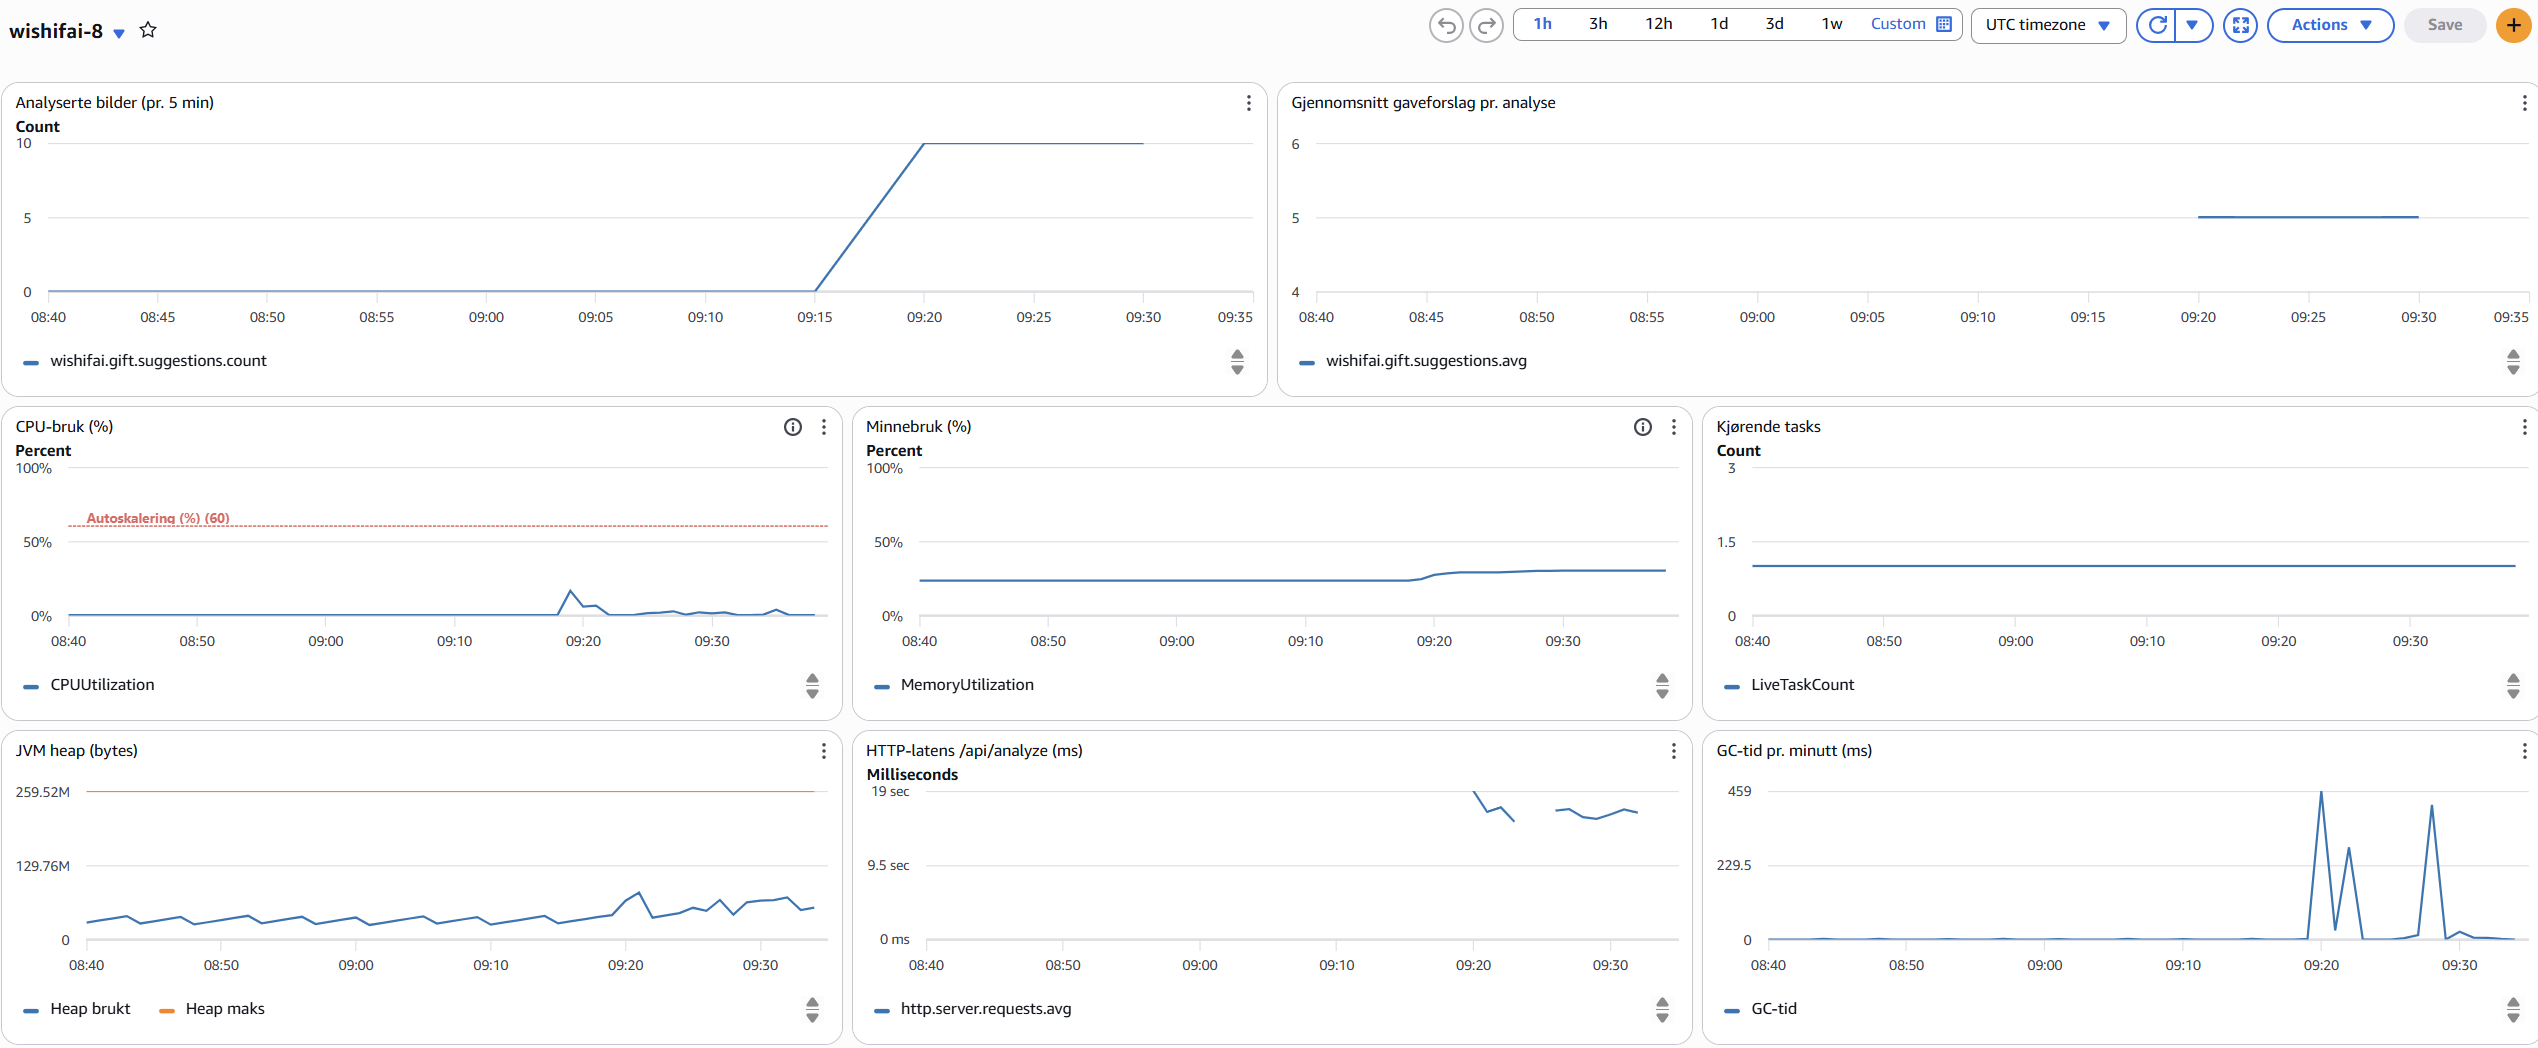
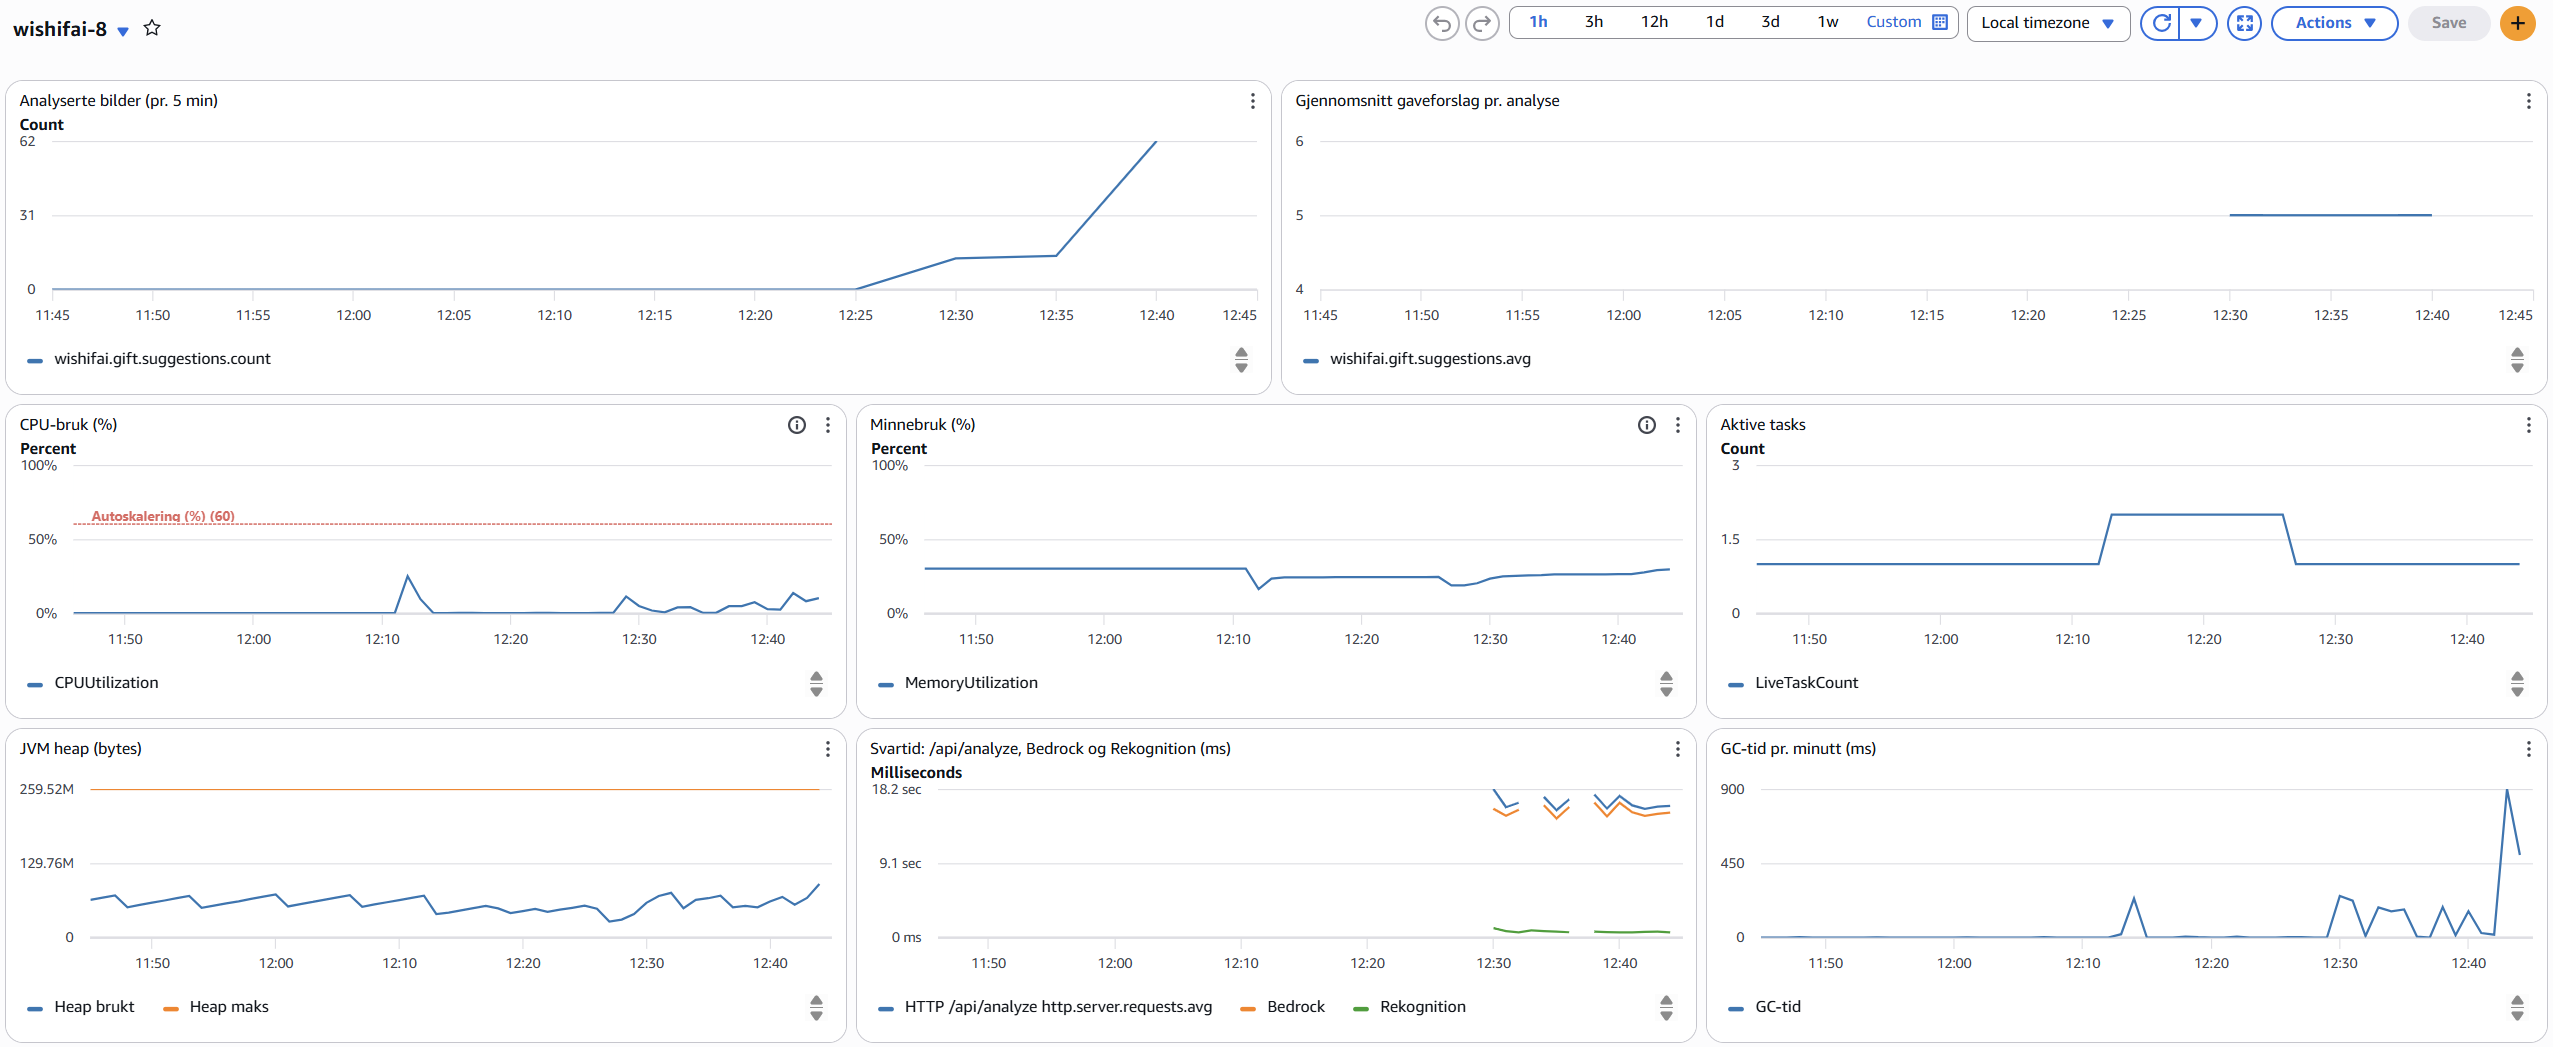
3B - Oppdatert bilde av dashboard

diff --git a/README_SVAR.md b/README_SVAR.md
@@ -20,7 +20,8 @@
 
 ## 2C - Terraform begrunnelse
 ### Hvorfor er det fornuftig at Terraform kjører etter container-build, og ikke parallelt eller før?
-- Imaget må finnes i ECR før Terraform kan deploye det.
+- Imaget må finnes i ECR før Terraform kan deploye det. Kjører de parallelt eller i motsatt rekkefølge, peker tjenesten på en tag som ikke finnes ennå, og deployen feiler.
+- Med `needs:` får Terraform-jobben image-taggen fra build-jobben, slik at det er den bygde committen som deployes.
 ### Lenke til grønn kjøring:
 - https://github.com/Hovercraft97/DevOpsExam2026/actions/runs/41686312781
 
@@ -61,7 +62,7 @@ Registrerer antall gaveforslag for hver fullførte analyse.
 ### Applikasjon
 - HTTP-latens på `/api/analyze` vises sammen med `wishifai.bedrock.duration` og `wishifai.rekognition.duration` i samme graf. Da ser man hvor stor andel av svartiden brukeren opplever som går til de eksterne AWS-kallene.
 - JVM heap og GC-tid (Garbage collection) pr. minutt viser om JVM-en selv er årsaken til treghet.
-- Metrikkene hentes med `SEARCH()` fordi Actuator legger på mange dimensjoner og kombinasjonene er ukjent på forhånd.
+- HTTP-, heap- og GC-metrikkene hentes med `SEARCH()` fordi Actuator legger på mange dimensjoner og kombinasjonene er ukjent på forhånd.
 
 ### Hvorfor denne sammensetningen
 Radene skal sammen svare på hvor tiden blir av. Er HTTP-latensen høy mens CPU, minne og GC er lave, ligger flaskehalsen i de eksterne AWS-kallene og ikke i containeren eller JVM-en.
